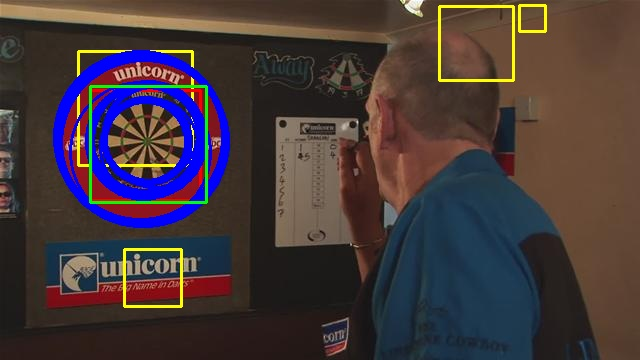
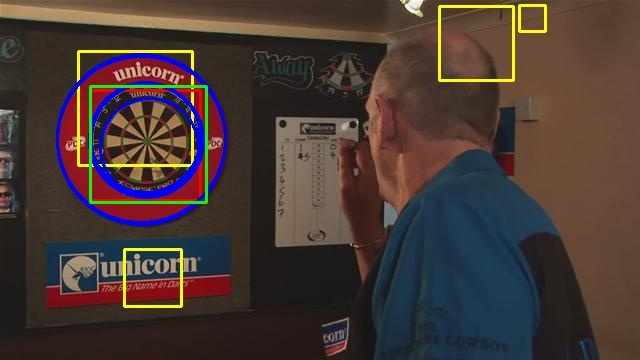
clean up

Changed region(s): [[0.0625, 0.1222, 0.375, 0.6417]]

diff --git a/hough.py b/hough.py
@@ -1,8 +1,8 @@
 import cv2
 import numpy as np
 
-image = cv2.imread("Dartboard/dart0.jpg", cv2.IMREAD_GRAYSCALE)
-color_image = cv2.imread("Dartboard/dart0.jpg", cv2.IMREAD_COLOR)
+image = cv2.imread("Dartboard/dart8.jpg", cv2.IMREAD_GRAYSCALE)
+color_image = cv2.imread("Dartboard/dart8.jpg", cv2.IMREAD_COLOR)
 
 # Sobel's kernels
 # for derivative in the x direction
@@ -158,7 +158,7 @@ binary_image = threshold_image(magnitude_image, T)
 # Hough Transform
 min_radius = 10
 max_radius = 150
-hough_threshold = 15
+hough_threshold = 25
 hough_space = hough(binary_image, direction_image, min_radius, max_radius, hough_threshold)
 # Extract circle centers
 circle_centers = np.argwhere(hough_space > hough_threshold)

diff --git a/DartboardDetector.py b/DartboardDetector.py
@@ -198,7 +198,6 @@ def evaluate_detections(detections, ground_truth):
 
 
 
-
 # Combines evidence from Viola-Jones and Hough Transform detections
 def combine_evidence(vj_detections, hough_detections):
     combined_detections = []
@@ -220,9 +219,6 @@ def combine_evidence(vj_detections, hough_detections):
             combined_detections.append(hough_circle)  # Add non-overlapping Hough detections
 
     return combined_detections
-
-
-
 
 
 # Perform detection and display the results
